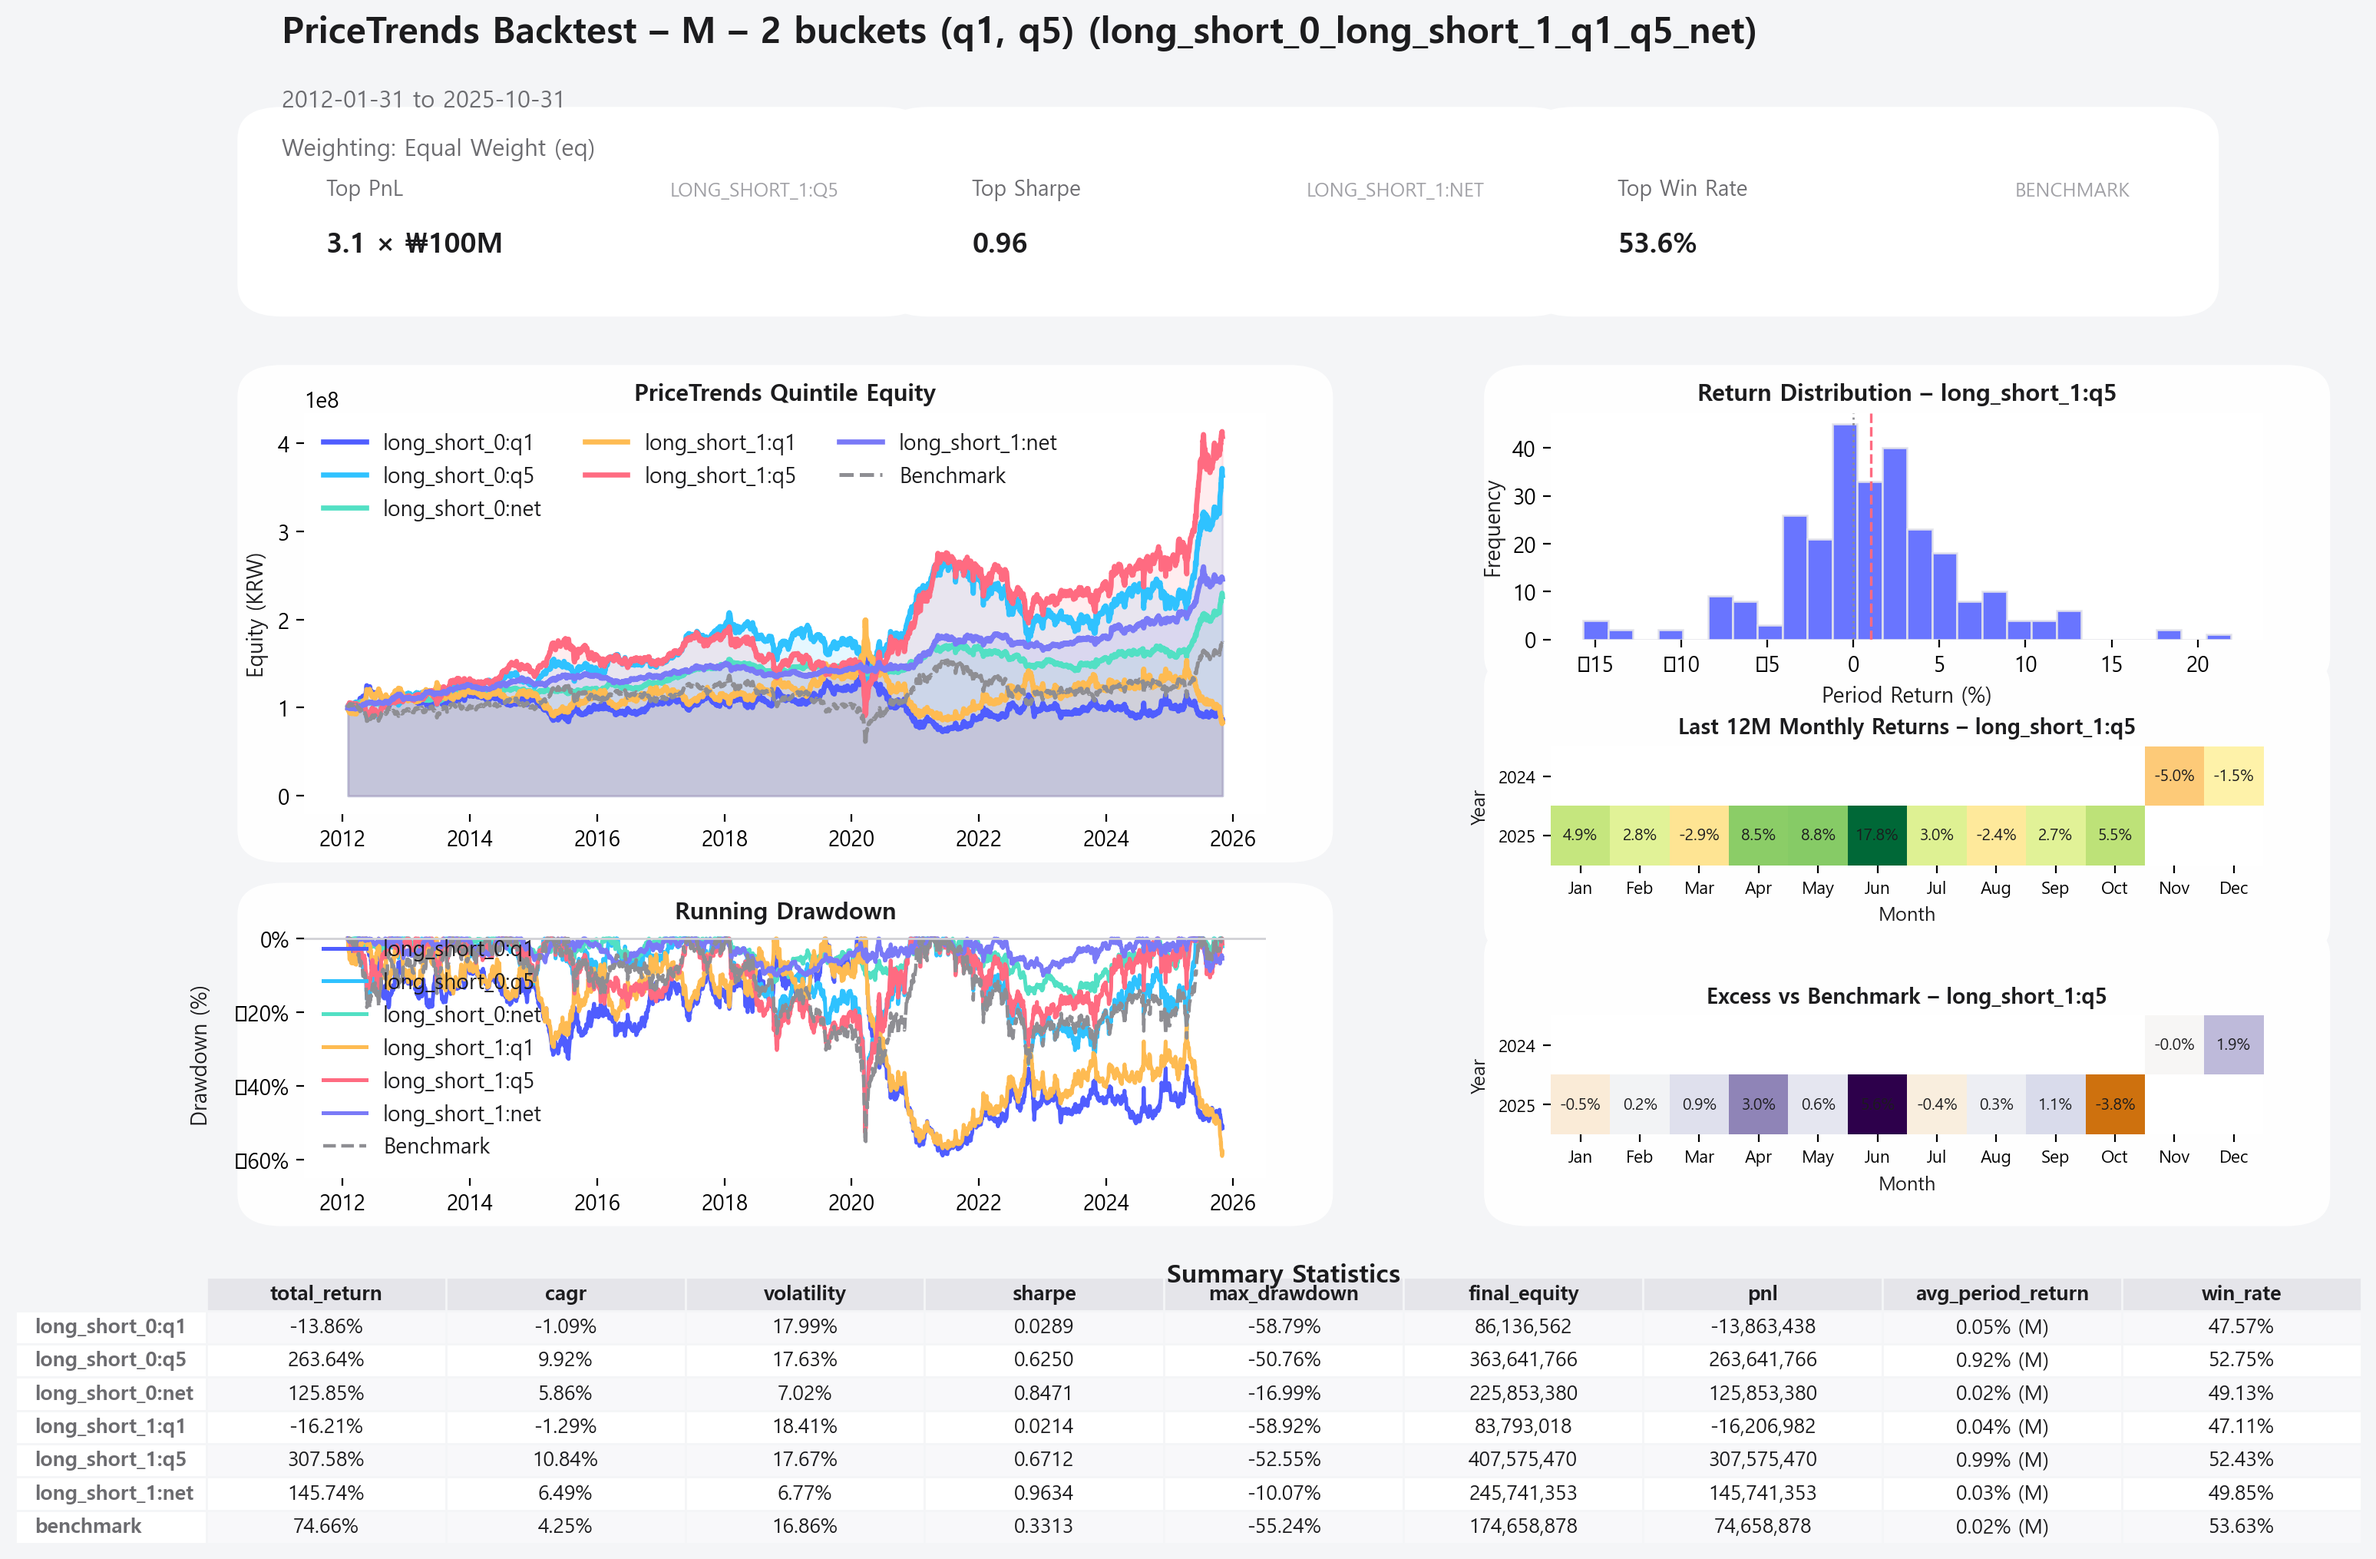
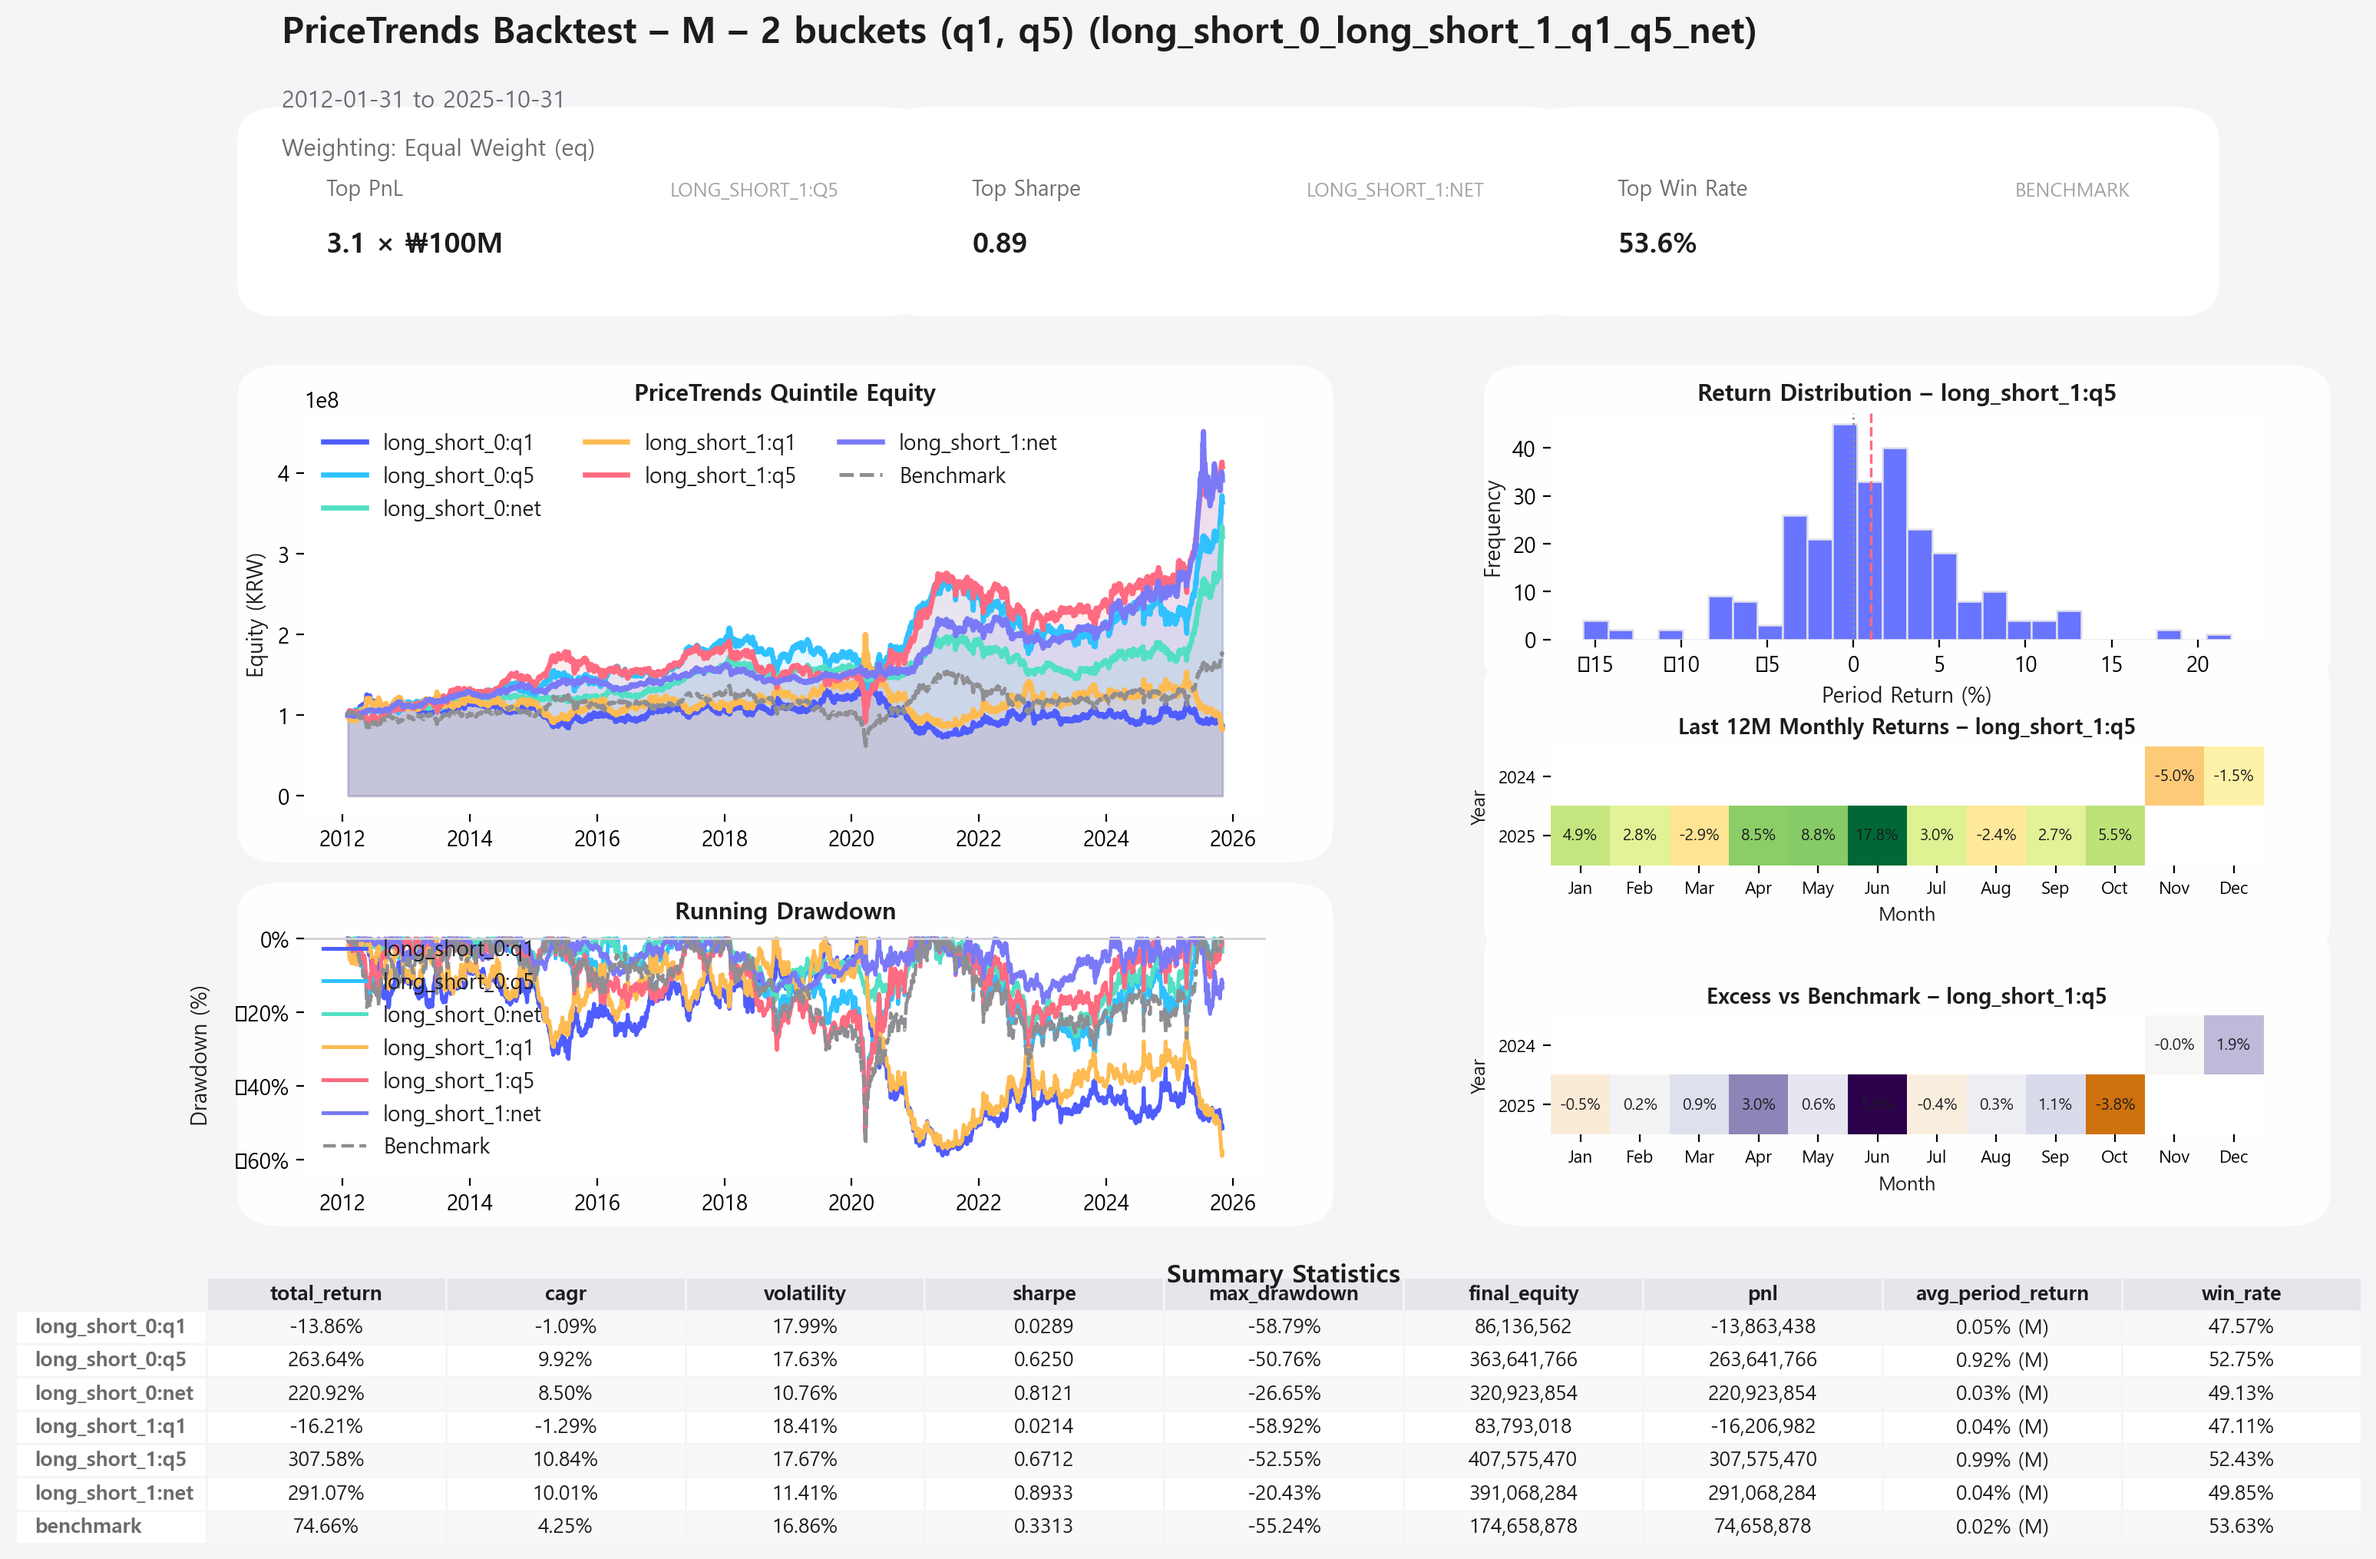
ADJ: Adjust engine to use dollar_neutral bt method

diff --git a/backtest/engine.py b/backtest/engine.py
@@ -390,8 +390,6 @@ class BacktestEngine:
         base = float(self.config.initial_capital)
         if base <= 0:
             return
-        if not longs or not shorts:
-            return
         long_id = longs[0]
         short_id = shorts[0]
         long_eq = reports[long_id].equity_curve
@@ -408,13 +406,14 @@ class BacktestEngine:
             rebalance_dates = [all_dates[0]]
         segments = rebalance_dates + [all_dates[-1]]
 
+        gross_const = base * 2.0
         net_returns_parts: list[pd.Series] = []
         for start, end in zip(segments[:-1], segments[1:]):
             mask = (all_dates >= start) & (all_dates <= end)
             segment_idx = all_dates[mask]
             if segment_idx.empty:
                 continue
-            gross = (long_eq.loc[start] + short_eq.loc[start])
+            gross = (long_eq.loc[start] + short_eq.loc[start]) if self.config.dollar_neutral_net else gross_const
             if gross == 0:
                 continue
             pnl = (long_eq.loc[segment_idx] - long_eq.loc[segment_idx].shift()).fillna(0.0) + (

diff --git a/backtest/main.py b/backtest/main.py
@@ -146,14 +146,14 @@ EXAMPLES: Dict[str, ExampleSpec] = {
         name="transformer_long_short_sector_neutral",
         scores=(transformer_score_path(mode="TEST", timeframe="LONG"),),
         group_selector=("q1", "q5", "net"),
-        sector_neutral=True,
+        sector_neutral=False,
         overrides={
             "active_quantiles": (0, 4),
             "long_short_mode": "net",
             "short_quantiles": (0,),
             "min_assets": 5,
             "label_prefix": "long_short_sn",
-            "dollar_neutral_net": True,
+            "dollar_neutral_net": False,
         },
         output_filename="backtest_long_short_sn.png",
     ),
@@ -208,5 +208,5 @@ def main(selected_examples: Tuple[str, ...] | None = None) -> None:
 
 
 if __name__ == "__main__":
-    examples = ("transformer_long_short",)
+    examples = ("transformer_long_short_sector_neutral",)
     main(examples)
